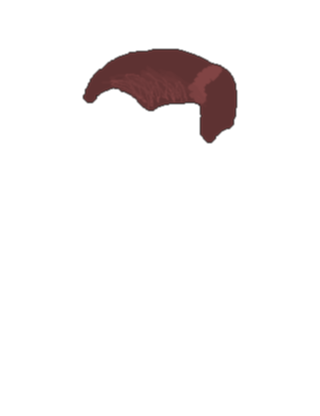
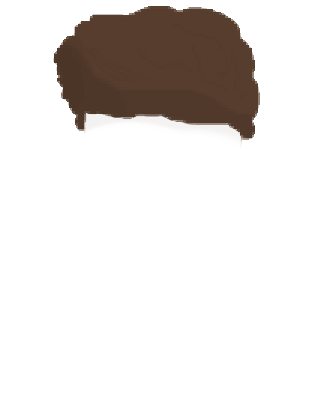
Added more hairstyles and questions. Total questions 140

Changed region(s): [[0.1562, 0.0, 0.8125, 0.3438]]

diff --git a/settings.py b/settings.py
@@ -9,6 +9,8 @@ GREEN = (0, 255, 0)
 RED = (255, 0, 0)
 YELLOW = (255, 255, 0)
 
+HAIR_COLORS = [(190, 123, 22), (170,136,102),(83, 61, 53), (99, 79, 79)]
+
 # game settings
 WIDTH = 1280   # 16 * 64 or 32 * 32 or 64 * 16
 HEIGHT = 768  # 16 * 48 or 32 * 24 or 64 * 12
@@ -64,7 +66,7 @@ DEFAULT_YPADDING = 15
 
 #CHARACTERS
 MALE_HEADS = {"01":"head0002.png"}
-MALE_HAIRSTYLES = {"Shaggy":"hair0001.png", "Slick":"hair0002.png", "Posh":"hair0003.png"}
+MALE_HAIRSTYLES = {"Shaggy":"hair0001.png", "Slick":"hair0002.png", "Posh":"hair0003.png", "Messy":"hair0004.png"}
 
 EYES = {"Alert":"eyes0001.png"}
 NOSES = {"The Pointer":"nose0001.png", "The ShadowMaker":"nose0002.png"}

diff --git a/game.py b/game.py
@@ -159,7 +159,9 @@ class Person:
         hairStyles = MALE_HAIRSTYLES if self.isMale else None
         hair, hairImage = choice(list(hairStyles.items()))
         hair = self.checkIsImageAlreadyLoaded(hair, hairImage)
-        self.hair = BodyPart(self.game, hair, 3)
+        tintImage = hair.convert_alpha()
+        tintImage.fill(choice(HAIR_COLORS), special_flags=pg.BLEND_ADD)
+        self.hair = BodyPart(self.game, tintImage, 3)
 
     def getRandomEyes(self):
         eyes, eyeImage = choice(list(EYES.items()))
